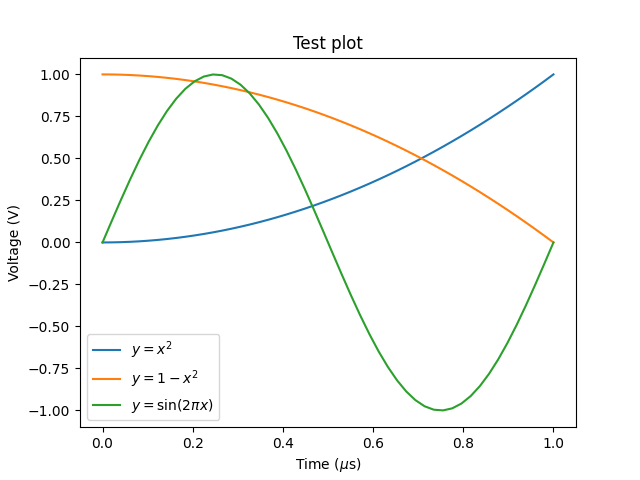
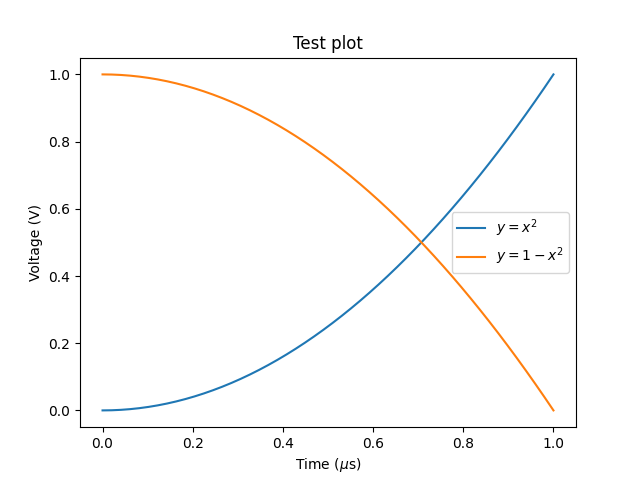
Add set_size function

diff --git a/bramplot/__init__.py b/bramplot/__init__.py
@@ -5,8 +5,11 @@ import scienceplots
 
 mpl.style.use("latte")
 
+DEFAULT_WIDTH = 3.176
+DEFAULT_HEIGHT = DEFAULT_WIDTH/1.618
+
 settings = {
-    "figure.figsize" : "3.176,1.963",
+    "figure.figsize" : f"{DEFAULT_WIDTH},{DEFAULT_HEIGHT}",
     "figure.dpi" : 600,
     "figure.constrained_layout.use" : True,
 
@@ -38,3 +41,27 @@ settings = {
     "savefig.facecolor": "ffffff",
 }
 rcParams.update(settings)
+
+
+def set_size(width=DEFAULT_WIDTH, height=None, aspect="golden", font=None):
+    fig = gcf()
+    settings = {}
+
+    # If height is not specified, use golden ratio
+    if height is None:
+        if aspect == "golden":
+            height = width/1.618
+        if aspect == "square":
+            height = width
+
+    settings["figure.figsize"] = f"{width},{height}"
+    fig.set_figwidth(width)
+    fig.set_figheight(height)
+
+
+    if font is not None:
+        settings["axes.labelsize"] = font
+        settings["axes.titlesize"] = font
+        settings["font.size"] = font
+
+    rcParams.update(settings)

diff --git a/test/plot.py b/test/plot.py
@@ -8,12 +8,10 @@ from pathlib import Path
 def plot():
     x = np.linspace(0, 1, 50)
     y = x**2
-    sinusoid = np.sin(2*np.pi*x)
 
     fig = plt.figure()
     plt.plot(x, y, label="$y=x^2$")
     plt.plot(x, 1-y, label="$y=1-x^2$")
-    plt.plot(x, sinusoid, label=r"$y=\sin (2\pi x)$")
     plt.xlabel(r"Time ($\mu$s)")
     plt.ylabel("Voltage (V)")
     plt.title("Test plot")
@@ -21,12 +19,13 @@ def plot():
 
     return fig
 
-save_dir = Path(__file__).parent.parent / "images"
+if __name__ == "__main__":
+    save_dir = Path(__file__).parent.parent / "images"
 
-fig = plot()
-fig.savefig(save_dir / "matplotlib.png")
+    fig = plot()
+    fig.savefig(save_dir / "matplotlib.png")
 
-import bramplot as plt
+    import bramplot as plt
 
-fig = plot()
-fig.savefig(save_dir / "bramplot.png")
+    fig = plot()
+    fig.savefig(save_dir / "bramplot.png")

diff --git a/test/set_size_example.py b/test/set_size_example.py
@@ -1,0 +1,19 @@
+"""Demonstrating the `set_size()` function"""
+
+import bramplot as plt
+import numpy as np
+from pathlib import Path
+from plot import plot
+
+save_dir = Path(__file__).parent.parent / "images"
+
+fig = plot()
+
+plt.set_size(width=4)
+fig.savefig(save_dir / "bramplot_width_4.png")
+
+plt.set_size(width=3, aspect="square")
+fig.savefig(save_dir / "bramplot_width_3_square.png")
+
+plt.set_size(width=3, height=1.5)
+fig.savefig(save_dir / "bramplot_width_3_half_aspect.png")

diff --git a/README.md b/README.md
@@ -7,7 +7,25 @@
 - [x] Good default styles based on scienceplots and catppuccin
 - [ ] Overwrite `plt` import and introduce extra save format `.fig`
 
-## Level 1: replace pyplot import
+## TL;DR
+
+```
+pip install bramplot
+```
+
+And replace
+
+```py
+import matplotlib.pyplot as plt
+```
+
+With
+
+```py
+import bramplot as plt
+```
+
+## Level 1: Replace pyplot import
 
 If you just want a figure which looks decent out of the box, without worrying about sizes, simly replace your typical `import matplotlib.pyplot as plt` import with `import bramplot as plt`.
 You can use all functions in `plt`, but the output has better defaults for colors and readability.
@@ -16,33 +34,69 @@ You can use all functions in `plt`, but the output has better defaults for color
 import bramplot as plt
 import numpy as np
 
-x = np.linspace(0, 1, 50)
-y = x**2
-sinusoid = np.sin(2*np.pi*x)
+def plot():
+    x = np.linspace(0, 1, 50)
+    y = x**2
 
-fig = plt.figure()
-plt.plot(x, y, label="$y=x^2$")
-plt.plot(x, 1-y, label="$y=1-x^2$")
-plt.plot(x, sinusoid, label=r"$y=\sin (2\pi x)$")
-plt.xlabel(r"Time ($\mu$s)")
-plt.ylabel("Voltage (V)")
-plt.title("Test plot")
-plt.legend()
+    fig = plt.figure()
+    plt.plot(x, y, label="$y=x^2$")
+    plt.plot(x, 1-y, label="$y=1-x^2$")
+    plt.plot(x, sinusoid, label=r"$y=\sin (2\pi x)$")
+    plt.xlabel(r"Time ($\mu$s)")
+    plt.ylabel("Voltage (V)")
+    plt.title("Test plot")
+    plt.legend()
+
+    return fig
+
+fig = plot()
+fig.savefig(filepath.format)
 ```
-
-**Standard matplotlib**
-
-![](images/matplotlib.png)
 
 **bramplot**
 
 ![](images/bramplot.png)
 
-## Finding optimal figure width and text size
+**Standard matplotlib**
+
+![](images/matplotlib.png)
+
+## Level 2: Use optimal figure width and text size
 
 Ideally, the figures you export have exactly the width they will have in your document.
 This way, they don't have to be resized and font sizes stay exactly how you set them in python.
 Additionally, having titles and labels the same font size as the caption text looks best.
+The default setting in `bramplot` is a width of 3.176 inches, which is the image width in astandard Latex double column article class document.
+The height is according to the golden ratio.
+If you know your desired figure width in inches and text size in pt, specify those with the function `set_sizes()`.
+
+**Specify only width for golden ratio**
+
+```
+fig = plot()
+plt.set_size(width=4)
+```
+
+![](images/bramplot_width_4.png)
+
+**Set aspect to square**
+
+```
+plt.set_size(aspect="square")
+```
+
+![](images/bramplot_square.png)
+
+**Custom size and aspect ratio**
+
+```
+plt.set_size(width=3, height=1.5)
+```
+
+![](images/bramplot_width_3_half_aspect.png)
+
+### Finding out figure width and font size
+
 `bramplot` includes a script to determine the figure width and caption font size for a latex project.
 
 1. Insert the default example image into your latex document, using *exactly* the following bit of latex:
@@ -60,6 +114,18 @@ Additionally, having titles and labels the same font size as the caption text lo
 ```sh
 python -m bramplot.find_sizes /path/to/file.pdf
 ```
+
+If you don't use latex, you can still insert `example-image-a.png` in your document.
+It is included in this repository in the `images` directory.
+Insert with the same caption text as above: 'This text is to detect the caption.'.
+Then export to pdf and run the script.
+
+### Figure sizes for posters / presentations
+
+In articles, you typically use some template with predefined widths and text sizes.
+For presentation or posters, these might be different through your document.
+You can usually find a good figure size by placing a dummy rectangle and resizing that to your desired size.
+Then find the size of that rectangle in inches.
 
 ## Development
 
